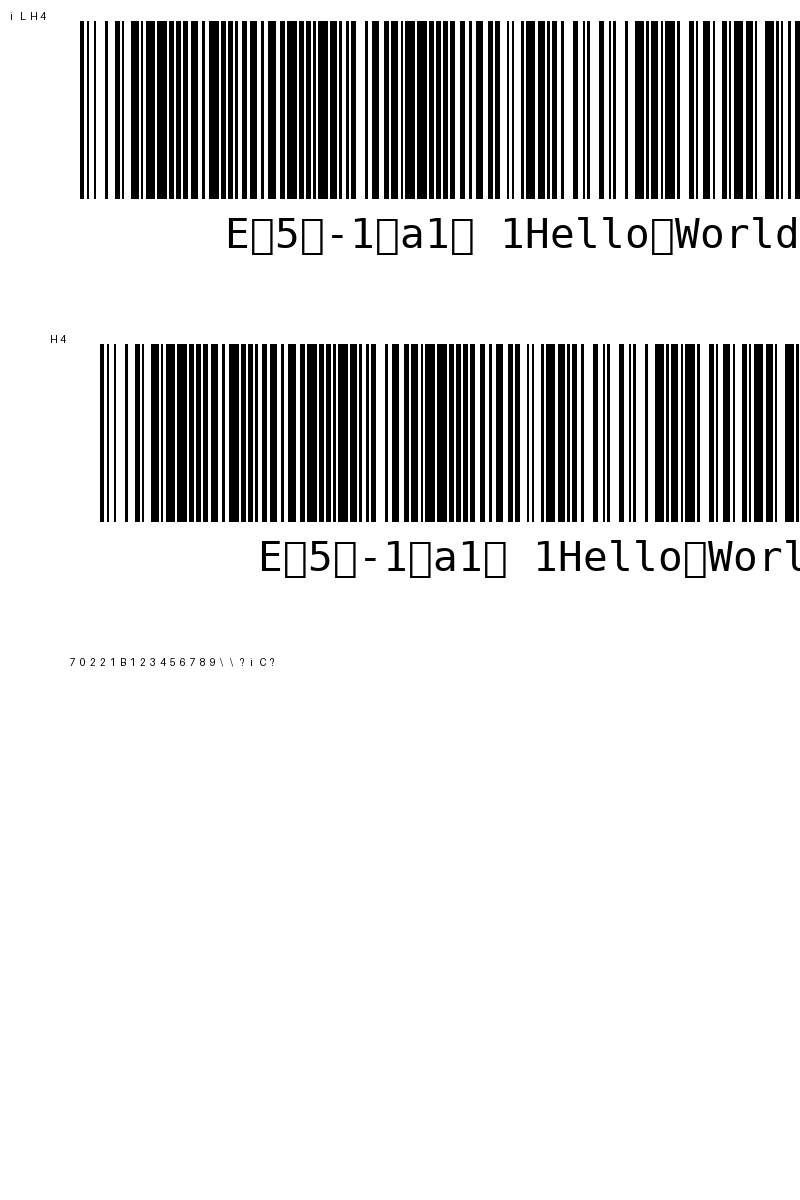
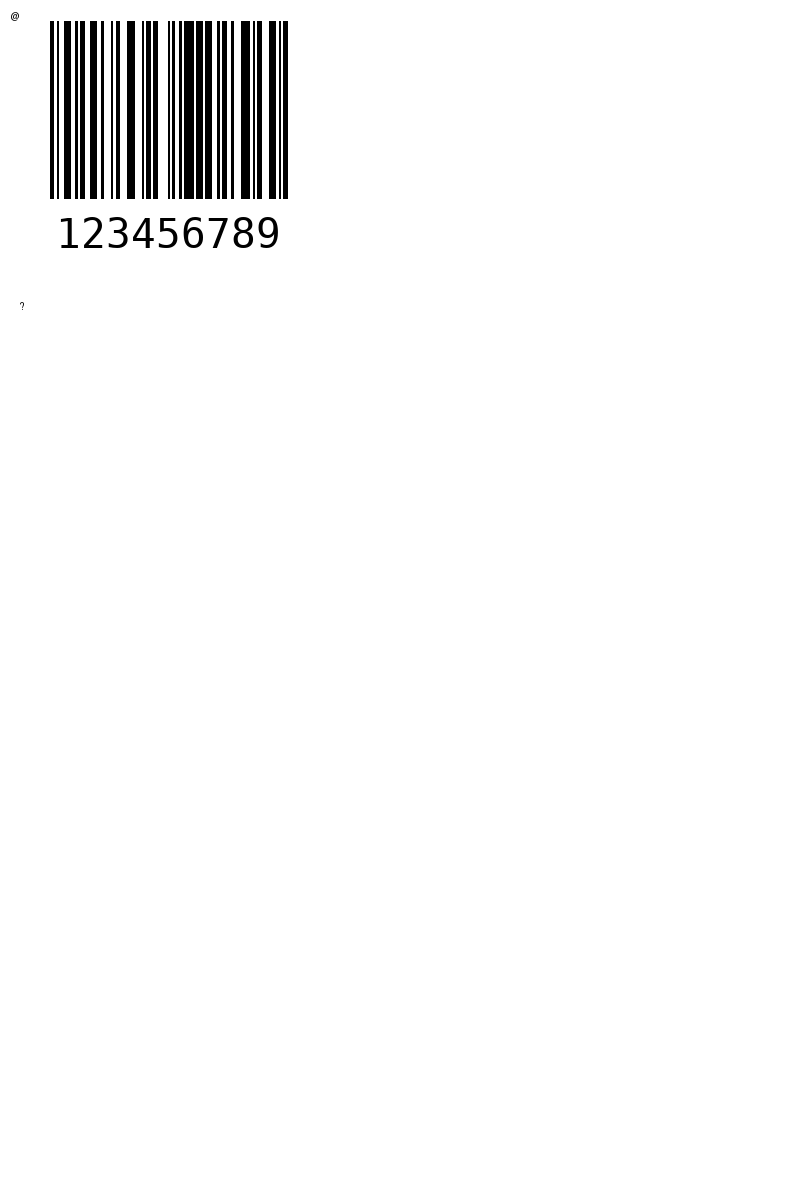
Fix barcode

Changed region(s): [[0.0625, 0.0, 1.0, 0.2158], [0.125, 0.2775, 1.0, 0.4933]]

diff --git a/escp_emulator.py b/escp_emulator.py
@@ -1,138 +1,111 @@
 import sys
-from escpos.printer import Dummy
+import os
 from PIL import Image, ImageDraw, ImageFont
 import barcode
 from barcode.writer import ImageWriter
 import io
 
-def generate_barcode(data, barcode_type='code128'):
-    barcodes = {
-        'code128': barcode.Code128,
-        'ean13': barcode.EAN13,
-        'ean8': barcode.EAN8
-    }
-    if barcode_type in barcodes:
-        EAN = barcodes[barcode_type]
-        ean = EAN(data, writer=ImageWriter())
-        buffer = io.BytesIO()
-        ean.write(buffer)
-        buffer.seek(0)
-        return Image.open(buffer)
+def generate_barcode(data, code_type='code128'):
+    if code_type.lower() == 'code128':
+        barcode_class = barcode.get_barcode_class('code128')
     else:
         raise ValueError("Unsupported barcode type")
+    
+    barcode_instance = barcode_class(data, writer=ImageWriter())
+    buffer = io.BytesIO()
+    barcode_instance.write(buffer)
+    buffer.seek(0)
+    return Image.open(buffer)
 
 def interpret_esc_p_commands(byte_data):
-    width, height = 800, 1200  # Увеличиваем размеры изображения
-    img = Image.new('RGB', (width, height), 'white')
+    img = Image.new('RGB', (800, 1200), color='white')
     draw = ImageDraw.Draw(img)
-
-    try:
-        font = ImageFont.truetype("arial.ttf", 15)
-    except IOError:
-        font = ImageFont.load_default()
+    font = ImageFont.load_default()
 
     x, y = 10, 10
     i = 0
     while i < len(byte_data):
         byte = byte_data[i]
         if byte == 27:  # ESC
-            if i + 1 < len(byte_data):
-                next_byte = byte_data[i + 1]
-                if next_byte == 64:  # ESC @ - инициализация принтера
-                    i += 2
-                elif next_byte == 69:  # ESC E - включить выделение
-                    i += 2
-                elif next_byte == 5:  # ESC E - выключить выделение
-                    i += 2
-                elif next_byte == 97:  # ESC a - выравнивание
-                    if i + 2 < len(byte_data):
-                        i += 3
-                    else:
-                        break
-                elif next_byte == 107:  # ESC k - печать штрих-кода
-                    if i + 4 < len(byte_data):
-                        barcode_type = byte_data[i + 2]
-                        barcode_data_length = byte_data[i + 3]
-                        if i + 4 + barcode_data_length <= len(byte_data):
-                            barcode_data = byte_data[i + 4:i + 4 + barcode_data_length].decode('ascii')
-                            barcode_img = generate_barcode(barcode_data)
-                            img.paste(barcode_img, (x, y))
-                            y += barcode_img.height + 10
-                            i += 4 + barcode_data_length
-                        else:
-                            break
-                    else:
-                        break
-                elif next_byte == 105:  # ESC i - команда для работы с баркодами
-                    if i + 2 < len(byte_data):
-                        barcode_start = i + 2
-                        while i < len(byte_data) and byte_data[i] != 27:
-                            i += 1
-                        barcode_data = byte_data[barcode_start:i].decode('ascii').strip()
-                        if barcode_data:
-                            barcode_img = generate_barcode(barcode_data, 'code128')
-                            img.paste(barcode_img, (x, y))
-                            y += barcode_img.height + 10
+            i += 1
+            if i < len(byte_data):
+                command = byte_data[i]
+                if command == 105:  # 'i' for barcode
+                    i += 1
+                    barcode_settings = ""
+                    while i < len(byte_data) and byte_data[i] != 66:
+                        barcode_settings += chr(byte_data[i])
                         i += 1
-                    else:
-                        break
-                elif next_byte == 73:  # ESC I
-                    if i + 2 < len(byte_data):
-                        i += 2
-                    else:
-                        break
-                elif next_byte == 83:  # ESC S
-                    if i + 2 < len(byte_data) and byte_data[i + 2] == 79:  # ESC SOH
-                        i += 3
-                    else:
-                        i += 2
-                elif next_byte == 88:  # ESC X
-                    if i + 2 < len(byte_data):
-                        i += 3
-                    else:
-                        break
-                else:
-                    i += 2
-            else:
-                break
-        elif byte == 10:  # LF - перевод строки
+                    i += 1  # Skip 'B'
+                    barcode_data = ""
+                    while i < len(byte_data) and byte_data[i] != 27 and byte_data[i] != 10 and byte_data[i] != 13:
+                        barcode_data += chr(byte_data[i])
+                        i += 1
+                    if barcode_data:
+                        try:
+                            barcode_data = barcode_data.strip('\\')  # Remove trailing backslashes
+                            print(f"Generating barcode with data: {barcode_data}")
+                            barcode_img = generate_barcode(barcode_data.strip(), 'code128')
+                            img.paste(barcode_img, (x, y))
+                            y += barcode_img.height + 10
+                        except Exception as e:
+                            print(f"Error generating barcode: {e}, Data: {barcode_data}")
+                elif command == 69:  # 'E' for bold text
+                    i += 1
+                    text_data = ""
+                    while i < len(byte_data) and byte_data[i] != 27 and byte_data[i] != 10 and byte_data[i] != 13:
+                        text_data += chr(byte_data[i])
+                        i += 1
+                    if text_data:
+                        draw.text((x, y), text_data, font=font, fill='black')
+                        y += 20
+                        x = 10
+                elif command == 35:  # Handling sequence `0x1B 0x35 0x1B 0x2D 0x31 0x1B 0x61 0x31 0x1B 0x20 0x31`
+                    i += 10  # Skip the next 10 bytes which are part of the sequence
+                    text_data = ""
+                    while i < len(byte_data) and byte_data[i] not in [27, 10, 13]:
+                        text_data += chr(byte_data[i])
+                        i += 1
+                    if text_data:
+                        print(f"Drawing text after sequence: {text_data}")
+                        draw.text((x, y), text_data, font=font, fill='black')
+                        x += draw.textsize(text_data, font=font)[0]
+                elif command in [10, 13]:  # LF or CR
+                    x = 10
+                    y += 20
+                    i += 1
+                    continue
+        elif byte == 10:  # LF
             x = 10
             y += 20
-            i += 1
-        elif byte == 9:  # HT - горизонтальная табуляция
-            x += 50
             i += 1
         else:
             text = chr(byte) if 32 <= byte <= 126 else '?'
             draw.text((x, y), text, font=font, fill='black')
             x += 10
-            if x > width - 20:  # Перенос строки
+            if x > img.width - 10:
                 x = 10
                 y += 20
             i += 1
 
     return img
 
-def emulate_escp(file_path, output_image_path):
-    printer = Dummy()
+def emulate_escp(input_file_path, output_image_path):
+    if not os.path.exists(input_file_path):
+        print(f"Error: Input file '{input_file_path}' not found.")
+        return
 
-    with open(file_path, 'rb') as file:
-        esc_p_string = file.read()
-
-    printer._raw(esc_p_string)
-
-    byte_data = printer.output
+    with open(input_file_path, 'rb') as file:
+        byte_data = file.read()
 
     img = interpret_esc_p_commands(byte_data)
-
     img.save(output_image_path)
     print(f"Emulated ESC/P output saved to {output_image_path}")
 
 if __name__ == "__main__":
     if len(sys.argv) != 3:
-        print("Usage: python escp_emulator.py <path_to_input_file> <path_to_output_image>")
-        sys.exit(1)
-
-    input_file_path = sys.argv[1]
-    output_image_path = sys.argv[2]
-    emulate_escp(input_file_path, output_image_path)
+        print("Usage: python escp_emulator.py <input_file> <output_image>")
+    else:
+        input_file_path = sys.argv[1]
+        output_image_path = sys.argv[2]
+        emulate_escp(input_file_path, output_image_path)
